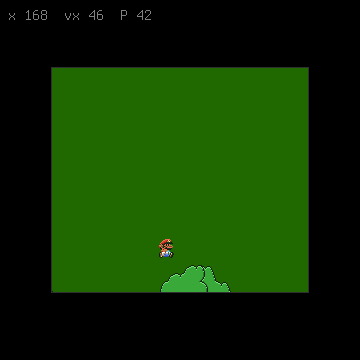
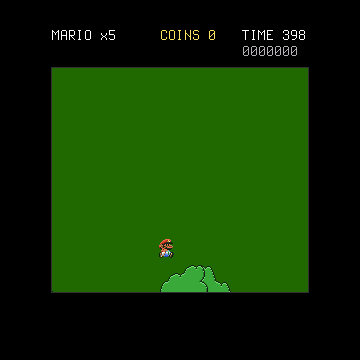
smw: goal tape, course clear, lives, clock, death and game over
Claude-Session: https://claude.ai/code/session_01819Cst5YoYQmWbqZtMgsvj

diff --git a/scripts/smw_goal.py b/scripts/smw_goal.py
@@ -1,0 +1,66 @@
+#!/usr/bin/env python3
+"""Captures the goal tape of the first level from your own ROM in the emulator.
+
+    python3 scripts/smw_goal.py ROM.sfc OUTDIR
+
+Runs to the goal, stops Mario before it, and rebuilds the tape (sprite 0x7B, three 16x16
+entries) from OAM and VRAM; the colours come from the game's palette copy. Writes goal.json
+(ox, oy, w, h from the sprite's x, y; the tape's x and y range) and tape.png.
+Measured with Mario held away: the tape rises one pixel a tick from y 368 to 244 and falls back
+the same way (248 ticks a cycle). After a touch it falls faster. Touching it starts the end: $1493 counts 255 down
+while Mario walks right. The time (digits at WRAM $0F31) drops one every 35 ticks from 400."""
+import json, os, sys
+sys.path.insert(0, os.path.dirname(os.path.abspath(__file__)))
+from PIL import Image
+from smw_capture import *
+from smw_sprites import sprites, draw
+
+
+def main():
+    if len(sys.argv) < 3:
+        sys.exit(__doc__)
+    g = Game(sys.argv[1])
+    g.to_first_level()
+    os.makedirs(sys.argv[2], exist_ok=True)
+    for f in range(5200):
+        g.poke(0x1497, 0x7F)
+        before = bytes(g.wram())          # the sprite table of the frame that the next step draws
+        x = before[0x94] | before[0x95] << 8
+        g.step([] if x > 4650 else [RIGHT, Y] + ([B] if f % 40 < 24 else []))
+        w = g.wram()
+        for i in range(12):
+            sy = w[0xD8 + i] | w[0x14D4 + i] << 8
+            if w[0x14C8 + i] and w[0x9E + i] == 0x7B and sy < 340:
+                cx, cy = w[0x1A] | w[0x1B] << 8, w[0x1C] | w[0x1D] << 8
+                gx = w[0xE4 + i] | w[0x14E0 + i] << 8
+                v = g.blocks()["VRA"]
+                start = before[0x15EA + i] // 4
+                ents = [e for e in sprites(before, v) if start <= e[0] < start + 3]  # the tape is three entries
+                px = {}
+                for e in ents:
+                    px.update(draw(e, v))
+                mirror = before[0x703:0x703 + 512]                  # the game's palette copy: sprite rows start at 0x100
+                col = {}
+                for (qx, qy), (c, p) in px.items():
+                    k = 0x100 + (p * 16 + c) * 2
+                    r = mirror[k] | mirror[k + 1] << 8
+                    col[(p, c)] = ((r & 31) * 255 // 31, ((r >> 5) & 31) * 255 // 31, ((r >> 10) & 31) * 255 // 31)
+                x0, y0 = min(p[0] for p in px), min(p[1] for p in px)
+                # keep the visible part: from the bar's left end, 24 pixels (the rest hides behind the right post)
+                im = Image.new("RGBA", (24, max(p[1] for p in px) - y0 + 1), (0, 0, 0, 0))
+                for (qx, qy), (c, p) in px.items():
+                    if qx - x0 < 24:
+                        r, gg, b = col[(p, c)]
+                        im.putpixel((qx - x0, qy - y0), (r, gg, b, 255))
+                im = im.crop((0, 0, 24, 8))           # the bar is the top rows; the rest of the entries is unrelated graphics
+                bb = im.getbbox()
+                im = im.crop(bb)
+                im.save(sys.argv[2] + "/tape.png")
+                json.dump({"x": gx, "ox": x0 + bb[0] - (gx - cx), "oy": y0 + bb[1] - (sy - cy), "w": im.width, "h": im.height,
+                           "y_bottom": 368, "y_top": 288}, open(sys.argv[2] + "/goal.json", "w"))
+                print("tape", im.size, "at", gx, sy)
+                return
+
+
+if __name__ == "__main__":
+    main()

diff --git a/carts/smw/build/build.py b/carts/smw/build/build.py
@@ -34,7 +34,8 @@ def pack_poses(ex, tiles_png, out_png, restyle=None):
     ids = sorted({m["pose"] for m in meta.values()})
     en_meta = json.load(open(ex + "/enemies/pics.json")) if os.path.exists(ex + "/enemies/pics.json") else {}
     en_names = sorted(k for k, v in en_meta.items() if v["w"] <= 40 and v["h"] <= 40 and v["id"] == 5)
-    rows = (len(ids) + 3) // 4 + (len(en_names) + 3) // 4
+    tape_json = ex + "/goal/goal.json"
+    rows = (len(ids) + 3) // 4 + (len(en_names) + 3) // 4 + (1 if os.path.exists(tape_json) else 0)
     big = Image.new("RGBA", (sheet.width, sheet.height + rows * 32), (0, 0, 0, 0))
     big.paste(sheet, (0, 0))
     lines = []
@@ -63,6 +64,16 @@ def pack_poses(ex, tiles_png, out_png, restyle=None):
         sx, sy = (i % 4) * 32, sheet.height + (base_row + i // 4) * 32
         big.paste(im, (sx, sy))
         en_lines.append("  ['%s'] = { %d, %d, %d, %d, %d, %d }," % (name, sx, sy, m["w"], m["h"], m["ox"], m["oy"]))
+    tape_lua = "local TAPE = nil\n"
+    if os.path.exists(tape_json):
+        t = json.load(open(tape_json))
+        im = Image.open(ex + "/goal/tape.png").convert("RGBA")
+        if restyle:
+            im = restyle(im)
+        sx, sy = 0, sheet.height + (base_row + (len(en_names) + 3) // 4) * 32
+        big.paste(im, (sx, sy))
+        tape_lua = "local TAPE = { %d, %d, %d, %d, %d, %d, %d }   -- sx, sy, w, h, ox, oy, level x\n" % (
+            sx, sy, t["w"], t["h"], t["ox"], t["oy"], t["x"])
     spawns = json.load(open(ex + "/spawns.json")) if os.path.exists(ex + "/spawns.json") else []
     seen, sp = set(), []
     for s in spawns:
@@ -72,6 +83,7 @@ def pack_poses(ex, tiles_png, out_png, restyle=None):
     big.save(out_png)
     return ("local POSES = {\n" + "\n".join(lines) + "\n}\n"
             "local ENEMY = {\n" + "\n".join(en_lines) + "\n}\n"
+            + tape_lua +
             "local KOOPAS = {   -- x, y, face (1 left, 0 right), starts as a shell\n" + "\n".join(sp) + "\n}\n")
 
 
@@ -79,10 +91,12 @@ def block_data(defs, level):
     """Lua tables for the blocks: the Map16 grid, the used block and the coin. The kinds come from
     scripts/smw_blocks.py: 0x124 gives a coin, 0x126 and 0x11A give an item, 0x11E is a turn block."""
     rows = ",\n".join("{" + ",".join(map(str, r)) + "}" for r in level)
-    return ("local L16 = {\n%s\n}\nlocal USED = {%s}\nlocal COIN16 = {%s}\n"
+    ids = sorted({k for r in level for k in r})
+    m16 = ",".join("[%d]={%s}" % (k, ",".join(map(str, defs.get(k, (0, 0, 0, 0))))) for k in ids)
+    return ("local M16 = {%s}\nlocal L16 = {\n%s\n}\nlocal USED = {%s}\nlocal COIN16 = {%s}\n"
             "local KIND = { [0x124] = 'coin', [0x126] = 'item', [0x11A] = 'item', [0x11E] = 'turn' }\n"
             "local COINS = { [0x02B] = true, [0x02D] = true, [0x02E] = true }\n" % (
-                rows, ",".join(map(str, defs.get(0x132, (0, 0, 0, 0)))), ",".join(map(str, defs.get(0x02B, (0, 0, 0, 0))))))
+                m16, rows, ",".join(map(str, defs.get(0x132, (0, 0, 0, 0)))), ",".join(map(str, defs.get(0x02B, (0, 0, 0, 0))))))
 
 
 def main():

diff --git a/carts/smw/guide/build.py b/carts/smw/guide/build.py
@@ -127,13 +127,11 @@ def main():
                 crow += [c, c]
             col_rows.append(crow)
     defs_new = {}                       # the redrawn cells of the used block and the coin, read from the level
-    for k in (0x132, 0x02B):
-        for y, row in enumerate(level):
-            if k in row:
-                x = row.index(k)
+    for y, row in enumerate(level):
+        for x, k in enumerate(row):
+            if k not in defs_new:
                 defs_new[k] = (main_rows[2 * y][2 * x], main_rows[2 * y + 1][2 * x], main_rows[2 * y][2 * x + 1],
                                main_rows[2 * y + 1][2 * x + 1])
-                break
     n_cells = len(cell_list) + 2
     sh = Image.new("RGBA", (128, ((n_cells + 15) // 16) * 8), (0, 0, 0, 0))
     for i, im in enumerate(cell_list, 1):

diff --git a/docs/progress/smw.md b/docs/progress/smw.md
@@ -22,6 +22,9 @@ the finished cartridge stay on the user's machine and SD card.
 - `scripts/smw_enemies.py`: per frame, the state and the picture of every sprite slot (OAM range from
   `$15EA`). `states.csv` has the picture name per row. Koopa Troopa (sprite 05): walks at 8, two
   frames of 8 ticks per facing, turns at walls, stomp gives a shell that sleeps 330 ticks.
+- `scripts/smw_goal.py`: the goal tape picture. Measured: the tape (sprite 0x7B at x 4832) goes up
+  one pixel a tick from y 368 to 244 and back (248 ticks). Touching it starts the end: Mario walks right.
+  The clock drops one every 35 ticks from 400. Mario starts with 5 lives.
 - `carts/smw/src/physics.lua`: movement at 50 Hz ticks. `scripts/smw_physics_check.py`
   scores it against the traces in `bmhost`. First jump: error under 3 pixels.
 - `carts/smw/src/game.lua` and `carts/smw/build/build.py`: the playable level, 360x360 `.b16`
@@ -49,10 +52,12 @@ the finished cartridge stay on the user's machine and SD card.
 - Tune the physics: start-up acceleration, air control, P meter decay, terminal speed. Slopes.
 - Done: question blocks with coins (bump, used tile), coin pickup, coin counter.
 - Items from blocks (egg, 0x79), turn blocks (break when big), Yoshi/dragon coins, score.
+- Done: the goal tape and the course clear banner, 5 lives, the clock, death (hop and fall), game over,
+  restart of the level (blocks and coins put back), score for coins, stomps, and the time bonus.
 - Done: Koopa Troopas (walk, turn, stomp, kick, slide, kill each other), Mario dies on touch.
 - Enemies still open: the level has sprites 00, 01, 04, 05 (Koopas), 3E (P switch), 4D, 4E (Monty Mole),
   4F (jumping piranha plant), 91 (Chargin' Chuck), B9 (message), 7B (goal). `spawns.json` has the
-  places. Goal tape and the end of the level. Death and lives.
+  places. Bonus by the tape height, the end screen of SMW, the overworld, 1-ups at 100 coins.
 - More levels. Map16 for other tilesets comes from the ROM table at `$0D8000`.
 - Sound: SPC700. Music last.
 - Measure the frame time on the RGB30. The host run takes 0.04 ms a frame.
